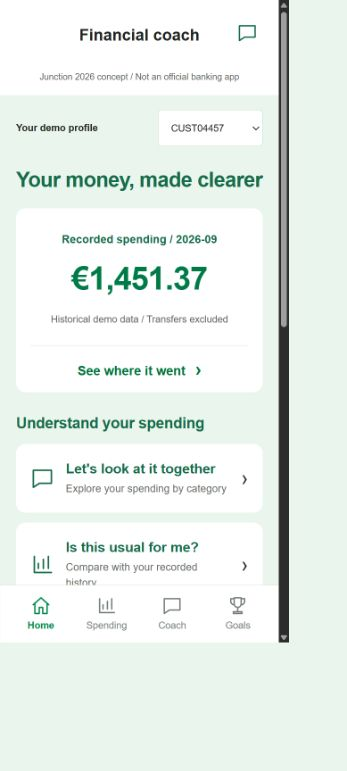
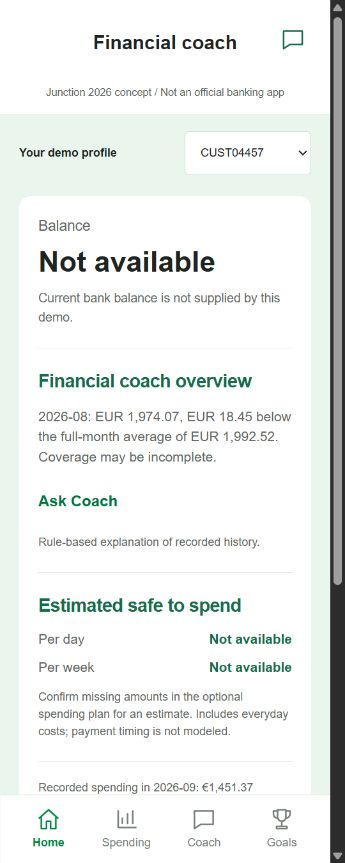
Simplify Home into balance coach and spending overview

diff --git a/frontend/src/main.jsx b/frontend/src/main.jsx
@@ -98,6 +98,16 @@ function App() {
     });
     return () => controller.abort();
   }, [customer, period, reload]);
+  useEffect(() => {
+    if (!customer) return;
+    const controller = new AbortController();
+    api(`customers/${customer}/coach`, {
+      method: 'POST', headers: { 'Content-Type': 'application/json' }, signal: controller.signal,
+      body: JSON.stringify({ question: 'Spending vs historical average' }),
+    }).then(result => setData(old => ({ ...old, coachOverview: result.text })))
+      .catch(() => { /* Keep the unavailable overview fallback without blocking other sections. */ });
+    return () => controller.abort();
+  }, [customer, period, reload]);
   async function createGoal(event) {
     event.preventDefault();
     const form = event.currentTarget;
@@ -146,34 +156,34 @@ function App() {
           setData({}); setAnalysis(null); setGoalNotice(''); setCustomer(e.target.value);
         }}><option value="" disabled>Select customer</option>
           {customers.map(item => <option key={item.customer_id}>{item.customer_id}</option>)}</select></div>
-      <div className="heading"><h1>{{ Home: 'Your money, made clearer',
-        Spending: 'Your spending', Goals: 'Your goals', Coach: 'Ask your coach' }[page]}</h1></div>
+      {page !== 'Home' && <div className="heading"><h1>{{ Home: 'Your money, made clearer',
+        Spending: 'Your spending', Goals: 'Your goals', Coach: 'Ask your coach' }[page]}</h1></div>}
       {error && <div className="error" role="alert">{error}<button disabled={busy} onClick={() => setReload(reload + 1)}>Try again</button></div>}
       {!customer && !error && <p role="status">Loading your profiles…</p>}
       {page === 'Home' && <>
-        <section className="spending-hero"><p>Recorded spending {spending?.month ? ' / ' + spending.month : ''}</p>
-          <strong className="amount">{money(spending?.spending_eur)}</strong>
-          <p className="fine">Historical demo data / Transfers excluded</p>
-          <button className="text-button" onClick={() => setPage('Spending')}>See where it went <span aria-hidden="true">&rsaquo;</span></button>
-        </section>
-        <h2 className="section-label">Understand your spending</h2>
-        <button className="journey-link" onClick={() => openCoach('Spending by category')}>
-          <Icon name="Coach" /><span><b>Let's look at it together</b><small>Explore your spending by category</small></span><span>&rsaquo;</span>
-        </button>
-        <button className="journey-link" onClick={() => openCoach('Spending vs historical average')}>
-          <Icon name="Spending" /><span><b>Is this usual for me?</b><small>Compare with your recorded history</small></span><span>&rsaquo;</span>
-        </button>
-        <h2 className="section-label">Looking ahead</h2>
-        <section><div className="section-title"><h2>Your spending room</h2><span className="tag">Estimate</span></div>
-          <div className="metrics"><div><small>Per day</small><strong>{money(data.budget?.daily_eur)}</strong></div>
-            <div><small>Per week</small><strong>{money(data.budget?.weekly_eur)}</strong></div></div>
-          <p>{data.budget?.status === 'estimated'
-            ? `Based on your confirmed ${data.budget.assumptions.horizon_days}-day plan. Includes planned everyday costs.`
-            : 'Not available yet. You can confirm missing amounts in the optional spending plan.'}</p>
-          {data.budget?.shortfall_eur > 0 && <p role="alert">Bills and reserve shortfall: {money(data.budget.shortfall_eur)}</p>}
-          <p className="fine">Estimates depend on your inputs and do not model payment timing.</p></section>
-        <button className="journey-link" onClick={() => setPage('Goals')}><Icon name="Goals" />
-          <span><b>Something to save for?</b><small>Optional goals, at your own pace</small></span><span>&rsaquo;</span></button>
+        <div className="home-overview">
+          <section className="home-balance"><h1>Balance</h1><strong>Not available</strong>
+            <p>Current bank balance is not supplied by this demo.</p></section>
+          <section className="home-coach"><h2>Financial coach overview</h2>
+            <p>{data.coachOverview || 'A historical comparison is not available yet. You can still explore recorded spending.'}</p>
+            <button className="text-button" onClick={() => openCoach('Spending vs historical average')}>Ask Coach</button>
+            <p className="fine">Rule-based explanation of recorded history.</p></section>
+          <section className="home-allowance"><h2>Estimated safe to spend</h2>
+            <p className="allowance-line">Per day <strong>{money(data.budget?.daily_eur)}</strong></p>
+            <p className="allowance-line">Per week <strong>{money(data.budget?.weekly_eur)}</strong></p>
+            <p className="fine">{data.budget?.status === 'estimated'
+              ? `Based on your confirmed ${data.budget.assumptions.horizon_days}-day plan.`
+              : 'Confirm missing amounts in the optional spending plan for an estimate.'}
+              {' '}Includes everyday costs; payment timing is not modeled.</p>
+            {data.budget?.shortfall_eur > 0 &&
+              <p role="alert">Bills and reserve shortfall: {money(data.budget.shortfall_eur)}</p>}
+          </section>
+          <div className="home-spending-link">
+            {spending?.month && <p className="fine">Recorded spending in {spending.month}: {money(spending.spending_eur)}</p>}
+            <button className="text-button" onClick={() => setPage('Spending')}>See where it went &rsaquo;</button>
+          </div>
+        </div>
+        <button className="home-goals text-button" onClick={() => setPage('Goals')}>Goals (optional) &rsaquo;</button>
         {data.assumptions && <PlanningForm key={`${customer}-${reload}`} assumptions={data.assumptions}
           busy={busy} onSave={savePlan} />}
         <details className="supporting"><summary>Account and mortgage information</summary><section>

diff --git a/frontend/src/style.css b/frontend/src/style.css
@@ -137,3 +137,16 @@ nav svg { display: block; margin: 0 auto 3px; }
 nav button[aria-current] { background: none; color: #008b48; }
 footer { color: #606b63; }
 @media (min-width: 600px) { main { padding-left: 32px; padding-right: 32px; } h1 { font-size: 30px; } }
+.home-overview { margin-top: 22px; background: white; border-radius: 12px; padding: 0 20px; }
+.home-overview section { margin: 0; padding: 22px 0; border-radius: 0; border-bottom: 1px solid #e4e7e4; }
+.home-balance h1 { font-size: 15px; font-weight: 400; color: #626862; margin: 0 0 6px; letter-spacing: 0; }
+.home-balance > strong { font-size: 30px; color: #202421; }
+.home-balance p { margin: 6px 0 0; font-size: 13px; }
+.home-coach h2, .home-allowance h2 { font-size: 19px; }
+.home-coach .fine { margin-bottom: 0; }
+.allowance-line { display: flex; justify-content: space-between; gap: 12px; margin: 8px 0; font-size: 14px; }
+.allowance-line strong { color: #176d4b; text-align: right; }
+.home-allowance .fine { margin-bottom: 0; }
+.home-spending-link { padding: 18px 0; }
+.home-spending-link p { margin: 0 0 4px; }
+.home-goals { display: block; padding: 16px 0 0; }

diff --git a/frontend/qa/HANDOFF.md b/frontend/qa/HANDOFF.md
@@ -1,5 +1,29 @@
 # S-mobiili-inspired coaching UI
 
+## Follow-up: simplified Home (14 November 2026)
+
+Supersedes the original Home mapping below. Home now presents one vertical surface:
+Balance / Not available, Financial coach overview, text-only estimated day/week allowance,
+then the Spending link. Goals are a secondary text action. Existing planning disclosures remain.
+The balance is never sourced from spending or available funds. Coach overview uses the existing
+read-only Coach POST with `Spending vs historical average`; its dated response is shown verbatim.
+Missing comparison data gets a brief unavailable fallback. No new backend contract or calculations.
+
+Follow-up verification: production build and diff check passed. Both customers showed their own
+dated comparison, unavailable bank balance and unavailable allowances. Checked actual CSS widths
+360/390 (scroll widths 345/375) without overflow. Replaced Home screenshots with these captures.
+Home Ask Coach prefilled the comparison question and submission returned the backend explanation.
+Created a Flexible test goal before planning and observed saved success. Home Spending link opened
+the existing bar chart. The transient comparison fallback was observed during customer loading.
+The test goal `UI follow-up test` remains only in the currently running local backend's memory.
+Preview confirmation/advanced-field preservation were verified in the earlier pass below and were
+not rerun for this Home-only follow-up. No physical-device or comparison-only failure injection.
+
+Backend blockers: bank balance needs a contract with amount, currency, timestamp and clear current
+versus historical semantics. Conversational budget planning, confirmed historical rent/food suggestions,
+and category-reduction scenarios remain unsupported; no wizard or negotiation controls were added.
+The existing Coach comparison supports Home today; a dedicated summary endpoint is optional.
+
 Branch: `codex/s-mobiili-ui`. Base: `main` at `65e4e80`.
 Implemented 14 November 2026. No backend edits, dependencies, main merge or deployment.
 
